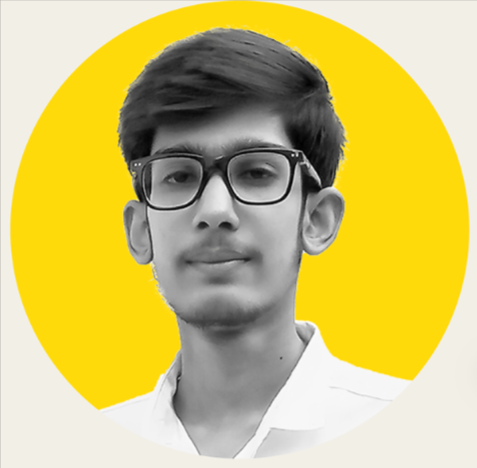
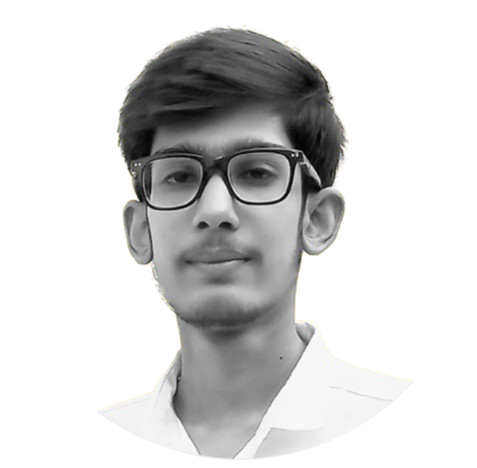
home section images bg remove

diff --git a/style.css b/style.css
@@ -43,6 +43,11 @@ body{
     
 }
 
+.home-img{
+    z-index: -2;
+    display: flex;
+    justify-content: center;
+}
 
 .home-img img{
     min-width: 32rem;
@@ -61,14 +66,24 @@ section:not(:first-of-type){
     position: relative;  
   }  
   
-  .custom-underline::after {  
-    content: '';  
-    position: absolute;  
-    left: 0;  
-    right: 0;  
-    bottom: 4px; 
-    height: 16px;  
-    background-color: #FFDA0B; 
-    rotate: 3deg;
-    z-index: -1; 
-  } 
+.custom-underline::after {  
+content: '';  
+position: absolute;  
+left: 0;  
+right: 0;  
+bottom: 4px; 
+height: 16px;  
+background-color: #FFDA0B; 
+rotate: 3deg;
+z-index: -1; 
+} 
+
+.home-img-yellow-bg{
+    width: 30.82rem;
+    height: 30.82rem;
+    background-color: #FFDA0B;
+    position: absolute;
+    z-index: -1;
+    border-radius: 50%;
+    
+}

diff --git a/index.js b/index.js
@@ -1,6 +1,6 @@
 const homeList = (text)=>{
     const homeUl = document.querySelector('#home-ul');
-    const li = `<li class="flex items-center"><img class="h-full" src="assets/yellow-start.png" alt=""><h2 class="font-medium text-4xl">${text}</h2></li>`
+    const li = `<li class="flex items-center"><img class="h-full" src="assets/yellow-star.png" alt=""><h2 class="font-medium text-4xl">${text}</h2></li>`
     const tempDiv = document.createElement('div')
     tempDiv.innerHTML = li
     homeUl.appendChild(tempDiv.firstChild) 

diff --git a/index.html b/index.html
@@ -64,6 +64,7 @@
         </div>
 
         <div class="home-img">
+            <div class="home-img-yellow-bg"></div>
             <img src="assets/home-image.png" alt="my-img">
         </div>
     </section>
